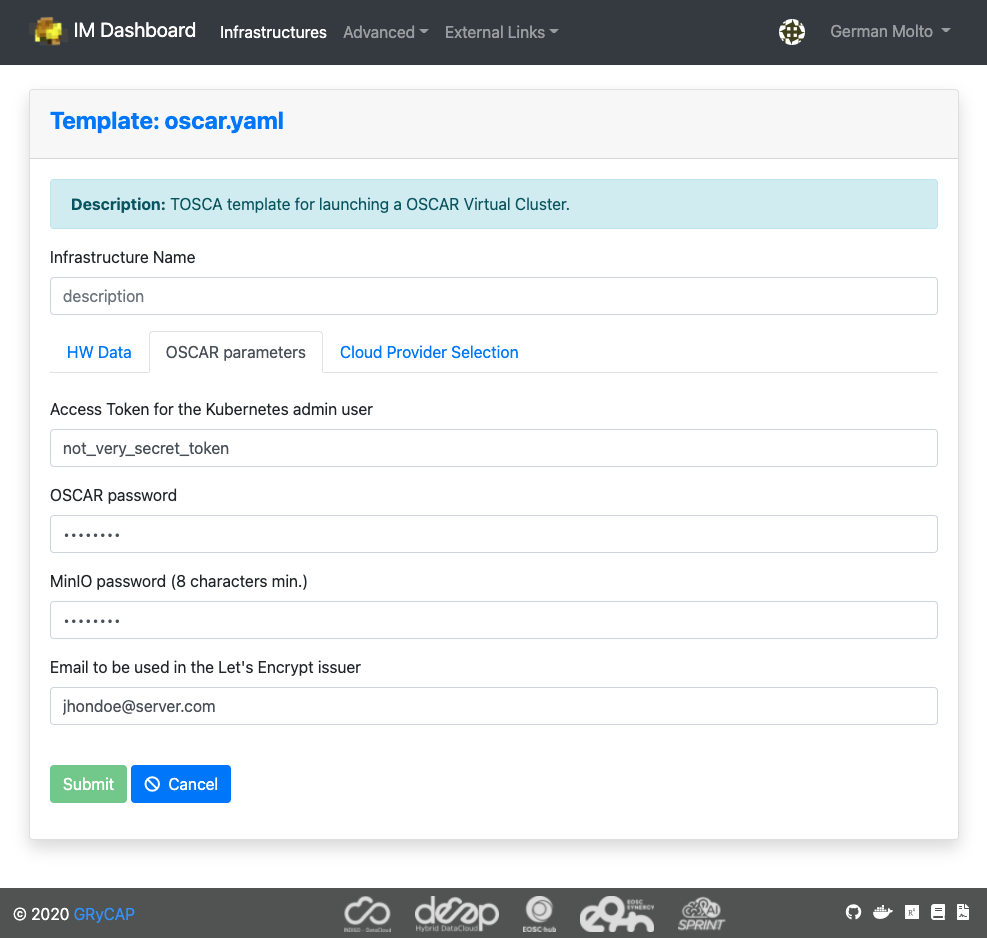
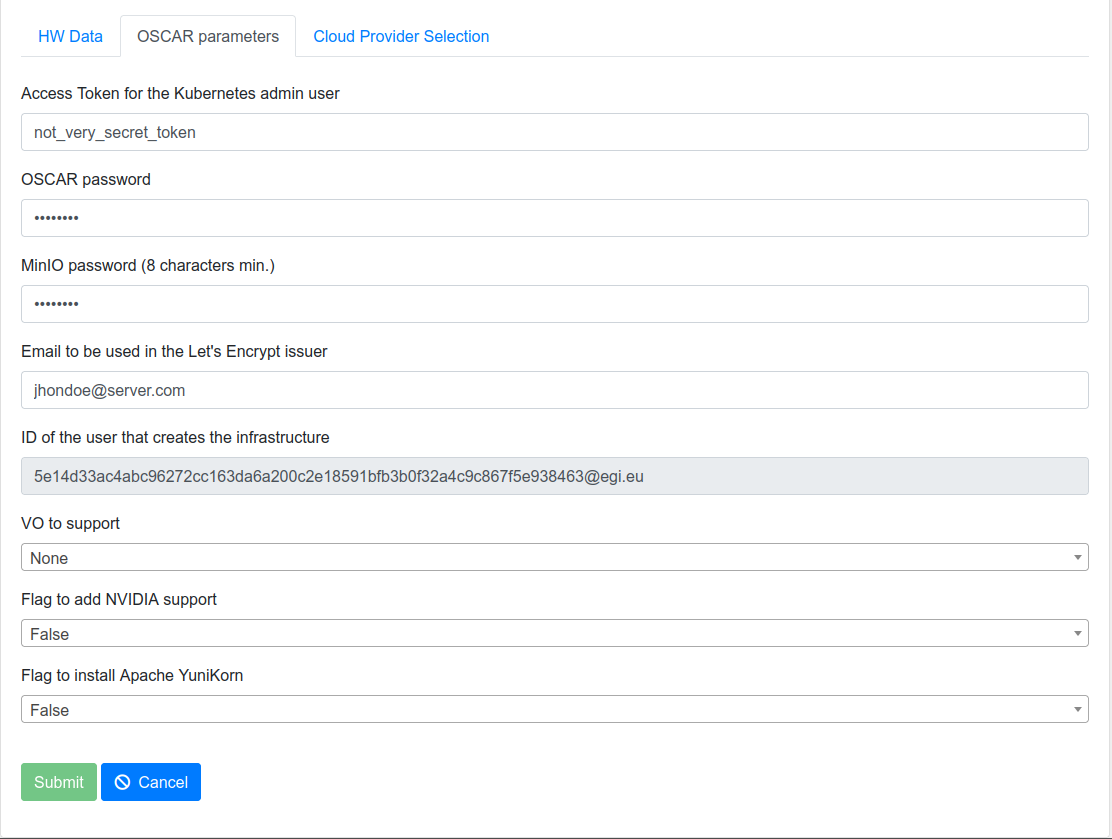
im parameters and faq secret images

diff --git a/docs/deploy-im-dashboard.md b/docs/deploy-im-dashboard.md
@@ -57,12 +57,29 @@ These are the steps:
     In this panel you can specify the number of Working Nodes (WNs) of the
     cluster together with the computational requirements for each node. We
     leave the default values.
+    - Number of WNs in the oscar cluster: Number of working nodes.
+    - Number of CPUs for the front-end node: Number of CPUs in the primary node.
+    - Amount of Memory for the front-end node: RAM in the primary node.
+    - Flavor name of the front-end node. Only required in case of special flavors i.e. with GPUs: Type of instance that will be selected in the front node.
+    - Number of CPUs for the WNs: number of CPUs per working node.
+    - Amount of Memory for the WNs: RAM per working node.
+    - Flavor name of the WNs. Only required in case of special flavors i.e. with GPUs: Type of instance that will be selected in the working nodes.
+    - Size of the extra HD added to the instance: Extra memory in the primary node.
     ![template-hw](images/im-dashboard/im-dashboard-02.png)
 
     In this panel, specify the passwords to be employed to access the
     Kubernetes Web UI (Dashboard), to access the OSCAR web UI and to access
     the MinIO dashboard. These tokens can also be used for programmatic access
     to the respective services.
+
+    - Access Token for the Kubernetes admin user: It is the token to connect to the Dashboard of Kubernetes.
+    - OSCAR password: password to OSCAR.
+    - MinIO password 8 characters min.: password to MinIO.
+    - Email to be used in the Lets Encrypt issuer: It is an Email linked with the certificates in case the user has any questions.
+    - ID of the user that creates the infrastructure: unique identifier. Do not touch.
+    - VO to support: It supports OIDC logging. If there is nothing, only can connect the user who deploys, in case there is a VO, it can be the user who deploys and all people in the VO.
+    - Flag to add NVIDIA support: if you want to use NVIDIA.
+    - Flag to install Apache YuniKorn: if you are going to use YuniKorn.
     ![template-param](images/im-dashboard/im-dashboard-03.png)
 
     Now, choose the Cloud provider. The ID specified when creating the Cloud

diff --git a/docs/faq.md b/docs/faq.md
@@ -16,3 +16,20 @@ You can check if you are using the correct default cluster with the following co
 and set a new default cluster with the following command:
 
 `oscar-cli cluster default -s CLUSTER_ID`
+
+- **How Do I use a secret image?**
+
+In case it is required, the use of secret images. It should create a [secret with the docker login configuration](https://kubernetes.io/docs/tasks/configure-pod-container/pull-image-private-registry/#registry-secret-existing-credentials) with a structure like this:
+
+```
+apiVersion: v1
+kind: Secret
+metadata:
+  name: dockersecret
+  namespace: oscar-svc
+data:
+  .dockerconfigjson: {base64 .docker/config.json}
+type: kubernetes.io/dockerconfigjson
+```
+
+Apply the file through kubectl into the Kubernetes OSCAR cluster to create the secret. To use it in OSCAR services, you must add the secret name (`dockersecret` in this example) in the definition of the service, using the API or a FDL, under the `image_pull_secrets` parameter, or through the "Docker secret" field in OSCAR-UI.
